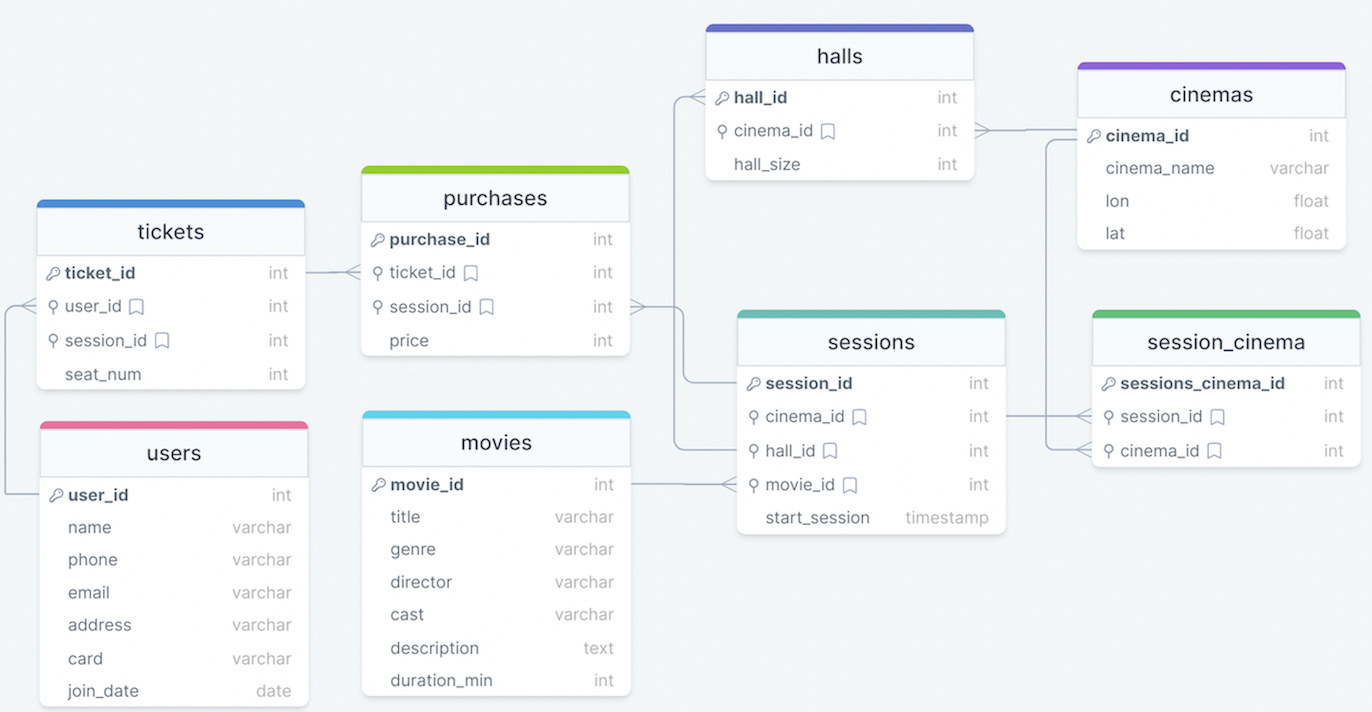
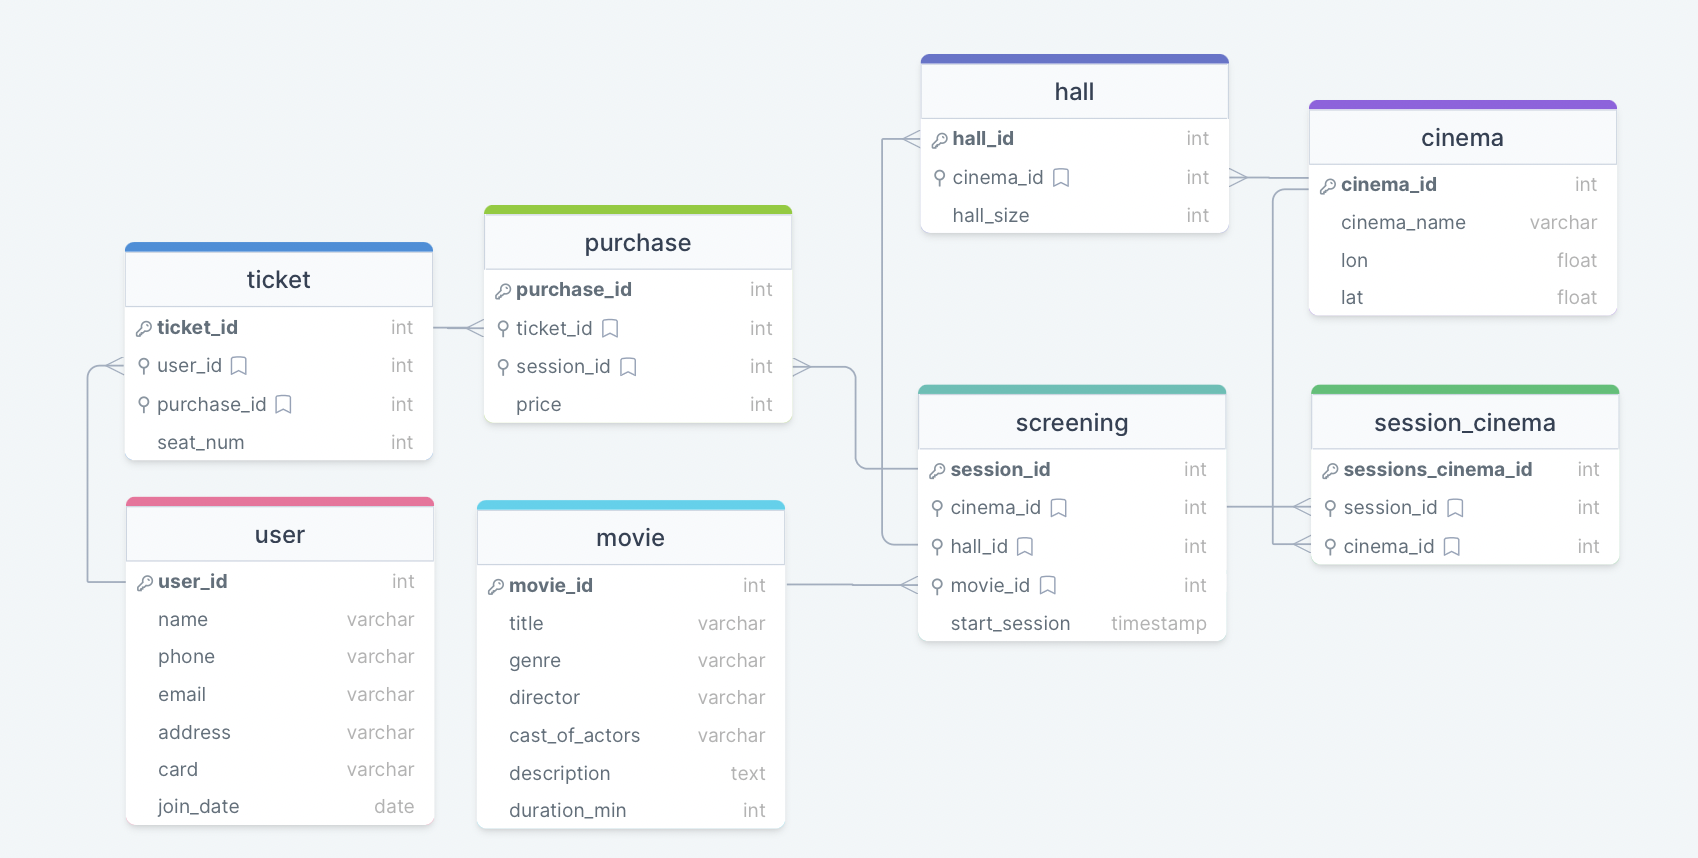
Fix

diff --git a/docs/physical-model.md b/docs/physical-model.md
@@ -4,14 +4,14 @@
 
 Таблица `ticket`:
 
-| Название        | Описание           | Тип данных     | Ограничение   |
-|-----------------|--------------------|----------------|---------------|
-| `ticket_id`     | Идентификатор      | `INTEGER`      | `PRIMARY KEY` |
-| `usere_id`      | id клиента         | `INTEGER`      | `FOREIGN KEY` |
-| `sessions_id`   | id сессии          | `INTEGER`      | `FOREIGN KEY` |
-| `seat_num`      | место в зале       | `INTEGER`      | `NOT NULL`    |
+| Название      | Описание           | Тип данных     | Ограничение   |
+|---------------|--------------------|----------------|---------------|
+| `ticket_id`   | Идентификатор      | `INTEGER`      | `PRIMARY KEY` |
+| `user_id`     | id клиента         | `INTEGER`      | `FOREIGN KEY` |
+| `purchase_id` | id сессии          | `INTEGER`      | `FOREIGN KEY` |
+| `seat_num`    | место в зале       | `INTEGER`      | `NOT NULL`    |
 
-Таблица `employer`:
+Таблица `user`:
 
 | Название             | Описание                   | Тип данных     | Ограничение   |
 |----------------------|----------------------------|----------------|---------------|
@@ -86,14 +86,14 @@
 CREATE TABLE cb.ticket(
     ticket_id INTEGER NOT NULL,
     user_id INTEGER NOT NULL,
-    session_id INTEGER NOT NULL,
+    purchase_id INTEGER NOT NULL,
     seat_num INTEGER NOT NULL,
 
     CONSTRAINT ticket_pk PRIMARY KEY (ticket_id)
 );
 ```
 
-Таблица `employer`:
+Таблица `user`:
 ```postgresql
 CREATE TABLE cb.employer(
     user_id INTEGER NOT NULL,
